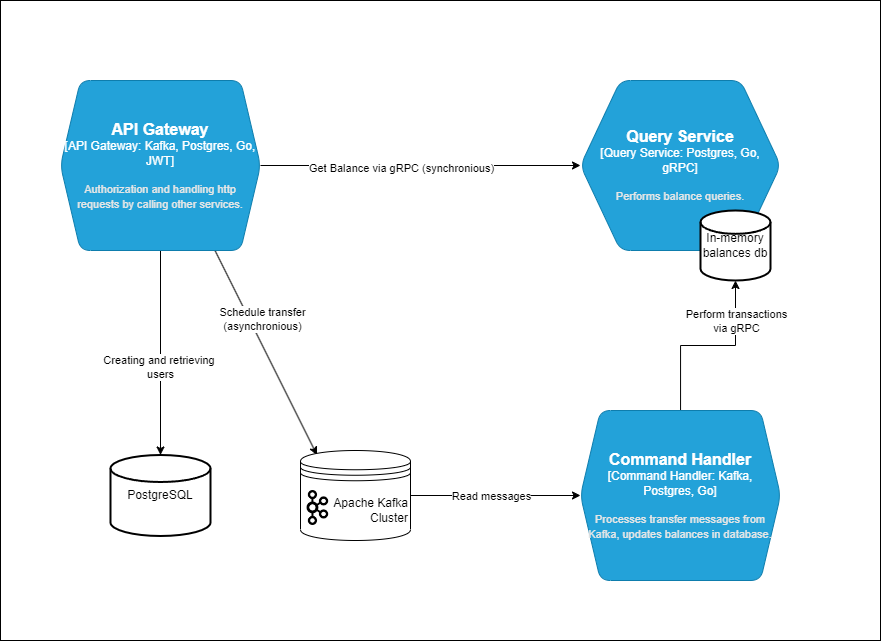
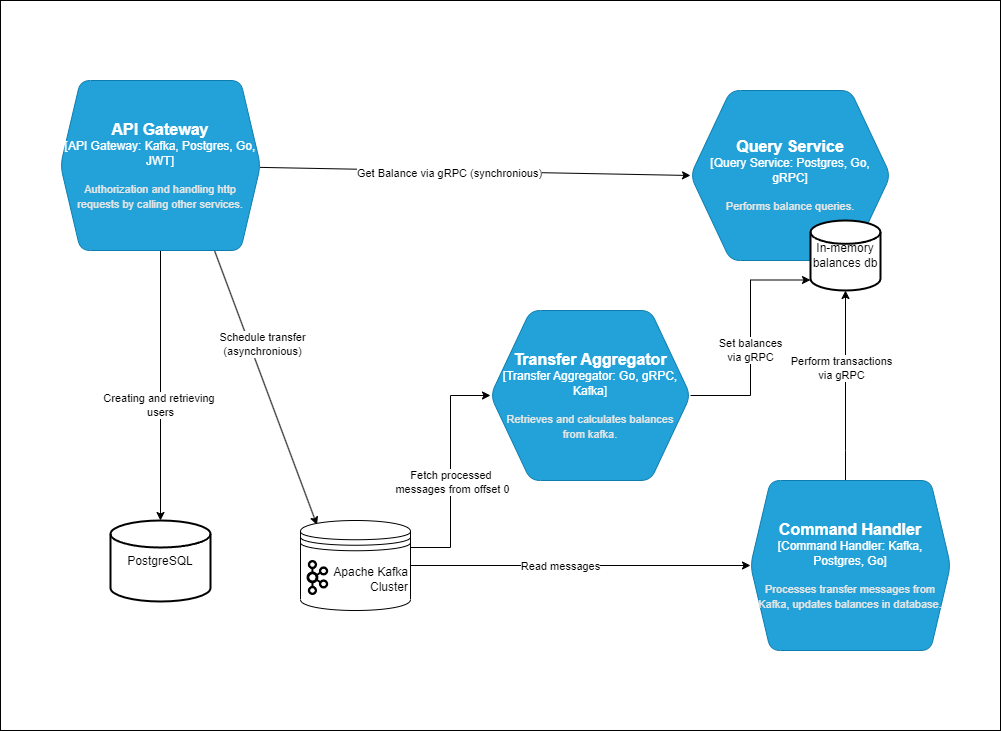
implement balance recreation

diff --git a/transfer-aggregator/kafkaaggregator/aggregator.go b/transfer-aggregator/kafkaaggregator/aggregator.go
@@ -3,49 +3,64 @@ package kafkaaggregator
 import (
 	"context"
 	"encoding/json"
+	"log"
 
 	"github.com/JakubDaleki/transfer-app/shared-dependencies"
 	"github.com/segmentio/kafka-go"
 )
 
 type Aggregator struct {
-	Partitions []kafka.Partition
+	partitions []kafka.PartitionOffsets
 }
 
 func NewAggregator() *Aggregator {
 	agg := new(Aggregator)
-
-	conn, err := kafka.Dial("tcp", "broker:29092")
+	addr := "broker:29092"
+	topic := "transfers"
+	conn, err := kafka.Dial("tcp", addr)
 	if err != nil {
 		panic(err.Error())
 	}
 	defer conn.Close()
-
-	partitions, err := conn.ReadPartitions("transfers")
+	partitions, err := conn.ReadPartitions(topic)
 	if err != nil {
 		panic(err.Error())
 	}
 
-	agg.Partitions = partitions
+	client := kafka.Client{Addr: kafka.TCP(addr)}
+	partitionIds := []kafka.OffsetRequest{}
+	for _, partition := range partitions {
+		partitionIds = append(partitionIds, kafka.OffsetRequest{Partition: partition.ID, Timestamp: kafka.LastOffset})
+	}
+	offRequest := map[string][]kafka.OffsetRequest{topic: partitionIds}
+	r, err := client.ListOffsets(context.Background(), &kafka.ListOffsetsRequest{Topics: offRequest})
+	if err != nil {
+		panic(err.Error())
+	}
+	agg.partitions = r.Topics[topic]
 	return agg
 
 }
 
 func (agg *Aggregator) ProcessAllPartitions(ch chan map[string]float64) {
-	for _, partition := range agg.Partitions {
-		ch <- agg.ProcessPartition(partition.ID)
+	log.Print("Processing data from ", len(agg.partitions), " partitions")
+	for _, partition := range agg.partitions {
+		balances := agg.ProcessPartition(partition.Partition, partition.LastOffset)
+		ch <- balances
 	}
+
 	close(ch)
+	log.Print("Successfully processed data from ", len(agg.partitions), " partitions")
+
 }
 
-func (agg *Aggregator) ProcessPartition(partitionId int) map[string]float64 {
+func (agg *Aggregator) ProcessPartition(partitionId int, offset int64) map[string]float64 {
 	aggregations := make(map[string]float64)
 	kafkaR := kafka.NewReader(kafka.ReaderConfig{
 		Brokers:   []string{"broker:29092"},
 		Topic:     "transfers",
 		Partition: partitionId,
 	})
-	offset := kafkaR.Offset()
 	kafkaR.SetOffset(0)
 	for i := int64(0); i < offset; i++ {
 		m, _ := kafkaR.FetchMessage(context.Background())
@@ -61,5 +76,6 @@ func (agg *Aggregator) ProcessPartition(partitionId int) map[string]float64 {
 			aggregations[mKey] = currAmount + transfer.Amount
 		}
 	}
+
 	return aggregations
 }

diff --git a/transfer-aggregator/main.go b/transfer-aggregator/main.go
@@ -6,6 +6,7 @@ import (
 	"log"
 	"os"
 
+	kafkautils "github.com/JakubDaleki/transfer-app/shared-dependencies/kafka"
 	"github.com/JakubDaleki/transfer-app/transfer-aggregator/kafkaaggregator"
 
 	pb "github.com/JakubDaleki/transfer-app/shared-dependencies/grpc"
@@ -28,8 +29,15 @@ func main() {
 	client := pb.NewQueryServiceClient(conn)
 
 	ch := make(chan map[string]float64)
-	agg := new(kafkaaggregator.Aggregator)
-	agg.ProcessAllPartitions(ch)
+	err = kafkautils.WaitForKafka()
+
+	if err != nil {
+		panic(err.Error())
+	}
+
+	agg := kafkaaggregator.NewAggregator()
+
+	go agg.ProcessAllPartitions(ch)
 
 	for batchedBalance := range ch {
 		_, err = client.RecreateBalances(context.Background(), &pb.BalancesMapRequest{BatchedBalances: batchedBalance})
@@ -37,6 +45,4 @@ func main() {
 			fmt.Println(err.Error())
 		}
 	}
-
-	fmt.Sprintln("Successfully processed data from ", len(agg.Partitions), " partitions")
 }

diff --git a/command-handler/main.go b/command-handler/main.go
@@ -8,6 +8,7 @@ import (
 
 	"github.com/JakubDaleki/transfer-app/shared-dependencies"
 	pb "github.com/JakubDaleki/transfer-app/shared-dependencies/grpc"
+	kafkautils "github.com/JakubDaleki/transfer-app/shared-dependencies/kafka"
 	"github.com/segmentio/kafka-go"
 	"google.golang.org/grpc"
 	"google.golang.org/grpc/credentials/insecure"
@@ -58,6 +59,12 @@ func main() {
 		log.Fatalf("fail to dial: %v", err)
 	}
 	defer conn.Close()
+
+	err = kafkautils.WaitForKafka()
+
+	if err != nil {
+		panic(err.Error())
+	}
 
 	kafkaR := kafka.NewReader(kafka.ReaderConfig{
 		Brokers: []string{"broker:29092"},

diff --git a/web-app/cmd/service/main.go b/web-app/cmd/service/main.go
@@ -5,8 +5,8 @@ import (
 	"net/http"
 
 	pb "github.com/JakubDaleki/transfer-app/shared-dependencies/grpc"
+	kafkautils "github.com/JakubDaleki/transfer-app/shared-dependencies/kafka"
 	"github.com/JakubDaleki/transfer-app/webapp/api/router"
-	"github.com/JakubDaleki/transfer-app/webapp/utils"
 	"github.com/JakubDaleki/transfer-app/webapp/utils/db"
 	"github.com/segmentio/kafka-go"
 	"google.golang.org/grpc"
@@ -15,7 +15,7 @@ import (
 
 func main() {
 	// wait for kafka service to be up
-	err := utils.WaitForKafka()
+	err := kafkautils.WaitForKafka()
 	if err != nil {
 		panic(err)
 	}
